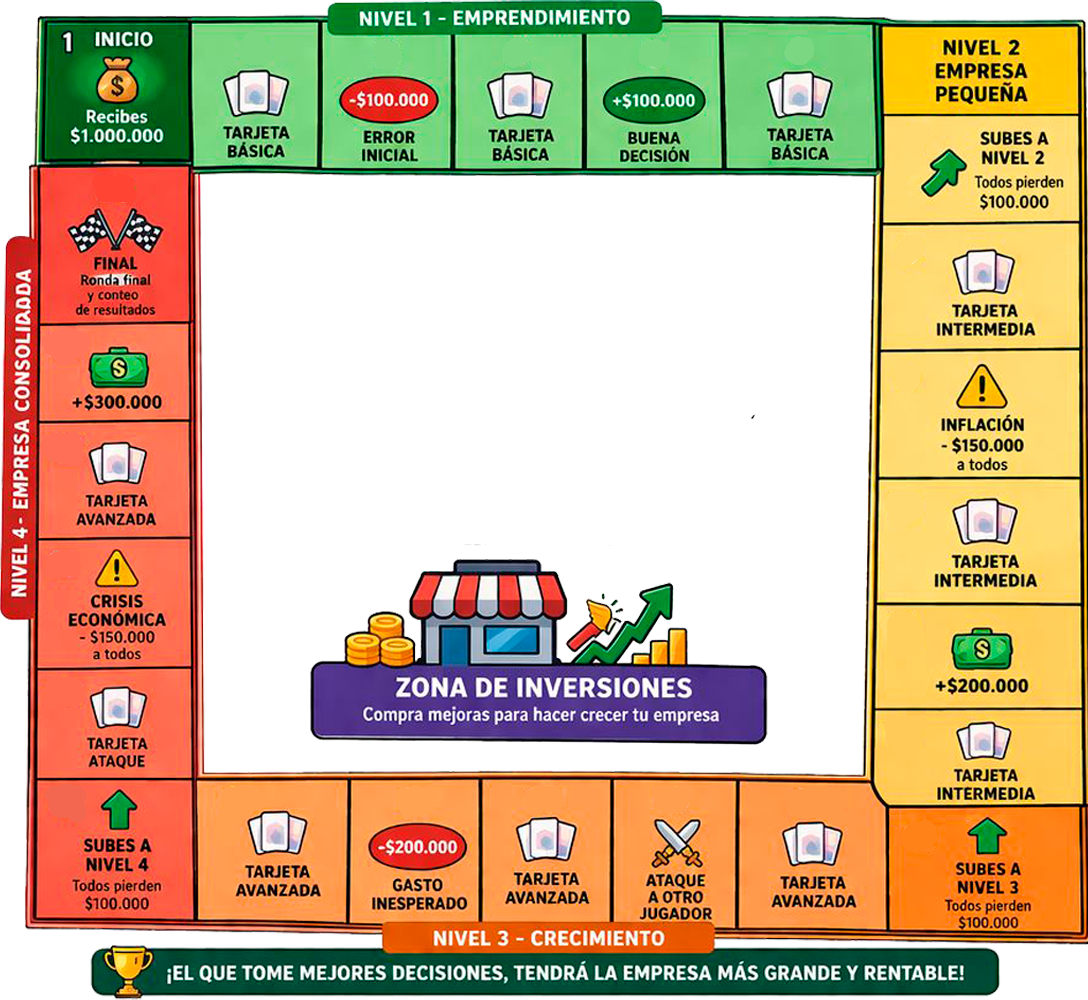
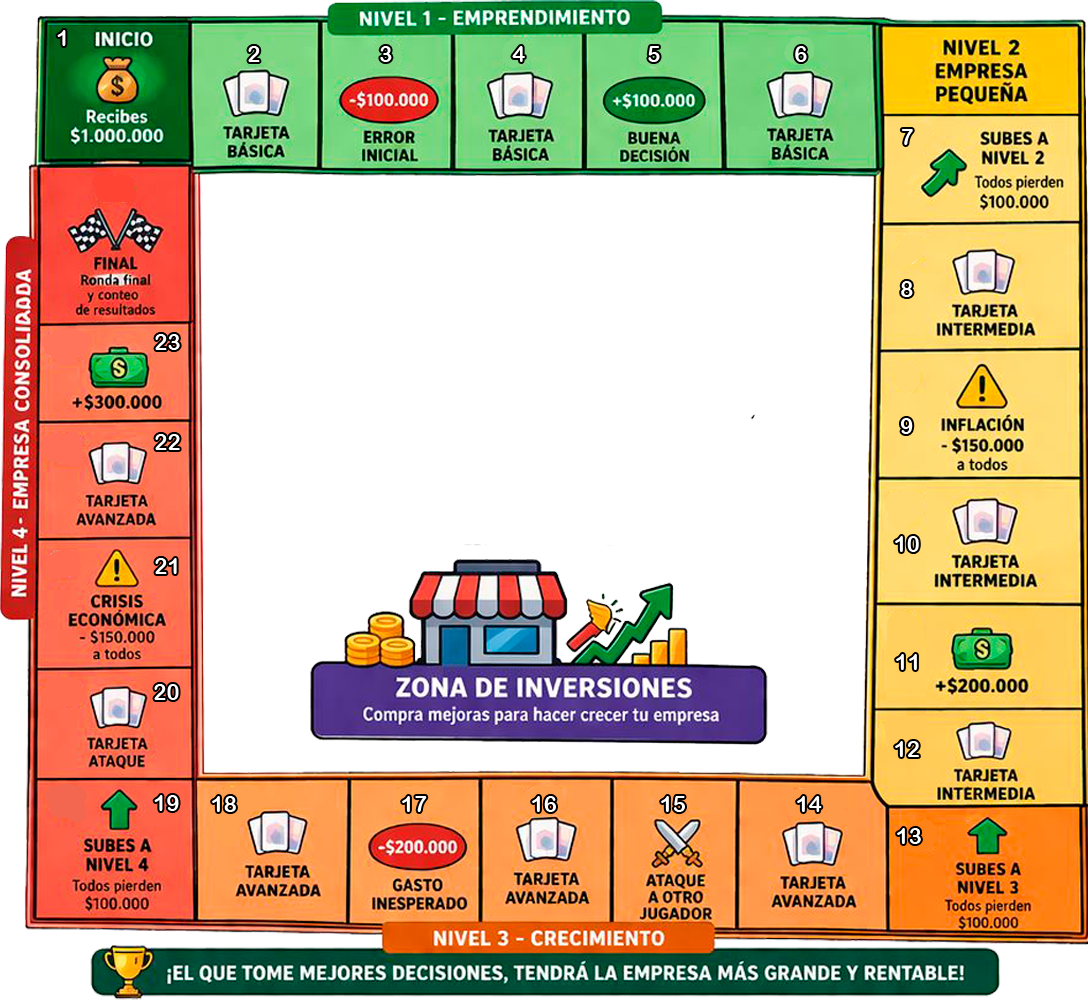
Se mejoran estilos, tablero, fichas, logica

diff --git a/src/app/core/config/board.config.ts b/src/app/core/config/board.config.ts
@@ -19,34 +19,34 @@ export interface TileConfig {
 export const BOARD_POSITIONS: TileConfig[] = [
 
     // NIVEL 1
-    { index: 0, x: 111, y: 83, effect: 'start', amount: 1000000 },
-    { index: 1, x: 252, y: 83, effect: 'card' },
-    { index: 2, x: 382, y: 83, effect: 'lose', amount: 100000 },
-    { index: 3, x: 512, y: 83, effect: 'card' },
-    { index: 4, x: 649, y: 83, effect: 'gain', amount: 100000 },
-    { index: 5, x: 791, y: 83, effect: 'card' },
+    { index: 0, x: 10.2, y: 8.3, effect: 'start', amount: 1000000 },
+    { index: 1, x: 23.1, y: 8.3, effect: 'card' },
+    { index: 2, x: 35.1, y: 8.3, effect: 'lose', amount: 100000 },
+    { index: 3, x: 47.1, y: 8.3, effect: 'card' },
+    { index: 4, x: 59.7, y: 8.3, effect: 'gain', amount: 100000 },
+    { index: 5, x: 72.7, y: 8.3, effect: 'card' },
 
     // NIVEL 2
-    { index: 6, x: 973, y: 148, effect: 'othersLose', amount: 100000 },
-    { index: 7, x: 973, y: 272, effect: 'card' },
-    { index: 8, x: 973, y: 413, effect: 'allLose', amount: 150000 },
-    { index: 9, x: 973, y: 537, effect: 'card' },
-    { index: 10, x: 973, y: 652, effect: 'gain', amount: 200000 },
-    { index: 11, x: 973, y: 747, effect: 'card' },
+    { index: 6, x: 89.4, y: 14.8, effect: 'othersLose', amount: 100000 },
+    { index: 7, x: 89.4, y: 27.2, effect: 'card' },
+    { index: 8, x: 89.4, y: 41.3, effect: 'allLose', amount: 150000 },
+    { index: 9, x: 89.4, y: 53.7, effect: 'card' },
+    { index: 10, x: 89.4, y: 65.2, effect: 'gain', amount: 200000 },
+    { index: 11, x: 89.4, y: 74.7, effect: 'card' },
 
     // NIVEL 3
-    { index: 12, x: 973, y: 872, effect: 'othersLose', amount: 100000 },
-    { index: 13, x: 805, y: 872, effect: 'card' },
-    { index: 14, x: 670, y: 872, effect: 'attack' },
-    { index: 15, x: 537, y: 872, effect: 'card' },
-    { index: 16, x: 410, y: 872, effect: 'lose', amount: 200000 },
-    { index: 17, x: 270, y: 872, effect: 'card' },
+    { index: 12, x: 89.4, y: 87.2, effect: 'othersLose', amount: 100000 },
+    { index: 13, x: 74.0, y: 87.2, effect: 'card' },
+    { index: 14, x: 61.6, y: 87.2, effect: 'attack' },
+    { index: 15, x: 49.3, y: 87.2, effect: 'card' },
+    { index: 16, x: 37.7, y: 87.2, effect: 'lose', amount: 200000 },
+    { index: 17, x: 24.8, y: 87.2, effect: 'card' },
 
     // NIVEL 4
-    { index: 18, x: 110, y: 872, effect: 'othersLose', amount: 100000 },
-    { index: 19, x: 110, y: 721, effect: 'card' },
-    { index: 20, x: 110, y: 610, effect: 'allLose', amount: 150000 },
-    { index: 21, x: 110, y: 470, effect: 'card' },
-    { index: 22, x: 110, y: 370, effect: 'gain', amount: 300000 },
-    { index: 23, x: 110, y: 260, effect: 'finish' }
+    { index: 18, x: 10.1, y: 87.2, effect: 'othersLose', amount: 100000 },
+    { index: 19, x: 10.1, y: 72.1, effect: 'card' },
+    { index: 20, x: 10.1, y: 61.0, effect: 'allLose', amount: 150000 },
+    { index: 21, x: 10.1, y: 47.0, effect: 'card' },
+    { index: 22, x: 10.1, y: 37.0, effect: 'gain', amount: 300000 },
+    { index: 23, x: 10.1, y: 26.0, effect: 'finish' }
 ];

diff --git a/src/app/features/dice/components/dice/dice.component.css b/src/app/features/dice/components/dice/dice.component.css
@@ -1,0 +1,95 @@
+.dice-wrapper {
+    position: fixed;
+    top: 42%;
+    left: 50%;
+    transform: translate(-280%, -50%);
+    perspective: 1000px;
+    z-index: 1000;
+}
+
+.dice-3d {
+    width: 70px;
+    height: 70px;
+    position: relative;
+    transform-style: preserve-3d;
+    transform: rotateX(-20deg) rotateY(25deg);
+    transition: transform .3s;
+}
+
+.dice-3d.rolling {
+    animation: rollDice 1s ease;
+}
+
+@keyframes rollDice {
+    0% {
+        transform: rotateX(0) rotateY(0);
+    }
+
+    25% {
+        transform: rotateX(180deg) rotateY(90deg);
+    }
+
+    50% {
+        transform: rotateX(360deg) rotateY(180deg);
+    }
+
+    75% {
+        transform: rotateX(540deg) rotateY(270deg);
+    }
+
+    100% {
+        transform: rotateX(720deg) rotateY(360deg);
+    }
+}
+
+.face {
+    position: absolute;
+    width: 70px;
+    height: 70px;
+    background: var(--diceColor);
+    border-radius: 16px;
+    display: grid;
+    grid-template-columns: repeat(3, 1fr);
+    padding: 8px;
+    box-shadow: 0 10px 25px rgba(0, 0, 0, .4);
+}
+
+.face span {
+    width: 10px;
+    height: 10px;
+    background: white;
+    border-radius: 50%;
+    align-self: center;
+    justify-self: center;
+}
+
+.one {
+    transform: translateZ(35px);
+}
+
+.two {
+    transform: rotateY(90deg) translateZ(35px);
+}
+
+.three {
+    transform: rotateY(180deg) translateZ(35px);
+}
+
+.four {
+    transform: rotateY(-90deg) translateZ(35px);
+}
+
+.five {
+    transform: rotateX(90deg) translateZ(35px);
+}
+
+.six {
+    transform: rotateX(-90deg) translateZ(35px);
+}
+
+.show-1 { transform: rotateX(0deg) rotateY(0deg); }
+.show-2 { transform: rotateX(0deg) rotateY(-90deg); }
+.show-3 { transform: rotateX(0deg) rotateY(-180deg); }
+.show-4 { transform: rotateX(0deg) rotateY(90deg); }
+.show-5 { transform: rotateX(-90deg) rotateY(0deg); }
+.show-6 { transform: rotateX(90deg) rotateY(0deg); }

diff --git a/src/app/features/board/pages/players-panel/players-panel.component.ts b/src/app/features/board/pages/players-panel/players-panel.component.ts
@@ -17,24 +17,30 @@ export class PlayersPanelComponent {
     if (color.startsWith('rgb')) {
       const rgb = color.match(/\d+/g);
       if (rgb && rgb.length >= 3) {
-        const r = parseInt(rgb[0]);
-        const g = parseInt(rgb[1]);
-        const b = parseInt(rgb[2]);
-        const lighterR = Math.floor(r + (255 - r) * 0.7);
-        const lighterG = Math.floor(g + (255 - g) * 0.7);
-        const lighterB = Math.floor(b + (255 - b) * 0.7);
-        return `rgb(${lighterR}, ${lighterG}, ${lighterB})`;
+        let r = parseInt(rgb[0]);
+        let g = parseInt(rgb[1]);
+        let b = parseInt(rgb[2]);
+
+        // Oscurecer pero mantener viveza (reducir un 30% en lugar de mezclar con blanco)
+        r = Math.floor(r * 0.7);
+        g = Math.floor(g * 0.7);
+        b = Math.floor(b * 0.7);
+
+        return `rgb(${r}, ${g}, ${b})`;
       }
     }
 
     if (color.startsWith('#')) {
-      const r = parseInt(color.slice(1, 3), 16);
-      const g = parseInt(color.slice(3, 5), 16);
-      const b = parseInt(color.slice(5, 7), 16);
-      const lighterR = Math.floor(r + (255 - r) * 0.7);
-      const lighterG = Math.floor(g + (255 - g) * 0.7);
-      const lighterB = Math.floor(b + (255 - b) * 0.7);
-      return `rgb(${lighterR}, ${lighterG}, ${lighterB})`;
+      let r = parseInt(color.slice(1, 3), 16);
+      let g = parseInt(color.slice(3, 5), 16);
+      let b = parseInt(color.slice(5, 7), 16);
+
+      // Oscurecer pero mantener viveza
+      r = Math.floor(r * 0.7);
+      g = Math.floor(g * 0.7);
+      b = Math.floor(b * 0.7);
+
+      return `rgb(${r}, ${g}, ${b})`;
     }
 
     return color;

diff --git a/src/app/features/dice/components/dice/dice.component.html b/src/app/features/dice/components/dice/dice.component.html
@@ -1,4 +1,28 @@
-<div class="dice">
-    <button (click)="roll()">Lanzar dado</button>
-    <h2 *ngIf="result">Resultado: {{result}}</h2>
+<div class="dice-wrapper">
+    <div class="dice-3d" [ngClass]="finalClass" [class.rolling]="rolling" [style.--diceColor]="currentColor"
+        (click)="roll()">
+        <div class="face one">
+            <span></span>
+        </div>
+
+        <div class="face two">
+            <span></span><span></span>
+        </div>
+
+        <div class="face three">
+            <span></span><span></span><span></span>
+        </div>
+
+        <div class="face four">
+            <span></span><span></span><span></span><span></span>
+        </div>
+
+        <div class="face five">
+            <span></span><span></span><span></span><span></span><span></span>
+        </div>
+
+        <div class="face six">
+            <span></span><span></span><span></span><span></span><span></span><span></span>
+        </div>
+    </div>
 </div>

diff --git a/src/app/features/dice/components/dice/dice.component.ts b/src/app/features/dice/components/dice/dice.component.ts
@@ -13,17 +13,35 @@ import { CommonModule } from '@angular/common';
 export class DiceComponent {
 
   result: number | null = null;
+  rolling = false;
+  finalClass = '';
+  currentColor = '#ffffff';
+
   private turnEngine = new TurnEngine();
 
   constructor(private game: GameService) { }
 
   roll() {
-    const dice = this.game.rollDice();
-    this.result = dice;
+
+    if (this.rolling) return;
 
     const player = this.turnEngine.getCurrentPlayer(this.game.players);
-    player.position += dice;
+    this.currentColor = player.color;
 
-    this.turnEngine.nextTurn(this.game.players);
+    this.rolling = true;
+    this.finalClass = '';
+
+    setTimeout(() => {
+
+      const dice = this.game.rollDice();
+      this.result = dice;
+
+      player.position += dice;
+      this.turnEngine.nextTurn(this.game.players);
+
+      this.rolling = false;
+      this.finalClass = 'show-' + dice;
+
+    }, 1000);
   }
 }

diff --git a/src/app/features/board/pages/game-board/game-board.component.css b/src/app/features/board/pages/game-board/game-board.component.css
@@ -13,13 +13,14 @@
 
 .board-area {
     position: relative;
-    width: 80%;
-    height: 80%;
-    max-width: 1100px;
-    max-height: 1100px;
+    width: min(80vw, 900px);
+    max-height: 80vh;
+    aspect-ratio: 1088 / 1000;
 }
 
 .board {
+    position: absolute;
+    inset: 0;
     width: 100%;
     height: 100%;
     object-fit: contain;
@@ -27,14 +28,16 @@
 
 .player-token {
     position: absolute;
-    width: 42px;
-    height: 42px;
+    width: 3.2%;
+    aspect-ratio: 1;
     border-radius: 50%;
     color: #111;
     font-weight: bold;
+    font-size: clamp(10px, 1vw, 14px);
     display: flex;
     justify-content: center;
     align-items: center;
     transform: translate(-50%, -50%);
-    box-shadow: 0 0 10px rgba(0, 0, 0, .5);
+    box-shadow: 0 0 12px rgba(0, 0, 0, .6);
+    transition: all .45s cubic-bezier(.22, 1, .36, 1);
 }

diff --git a/src/app/features/board/pages/game-board/game-board.component.ts b/src/app/features/board/pages/game-board/game-board.component.ts
@@ -23,7 +23,15 @@ export class GameBoardComponent {
   constructor(public game: GameService) { }
 
   getPosition(player: any) {
-    return BOARD_POSITIONS[player.position % BOARD_POSITIONS.length];
+    const base = BOARD_POSITIONS[player.position % BOARD_POSITIONS.length];
+
+    const offsetStep = 1.8; // separación real proporcional
+    const offset = player.id * offsetStep;
+
+    return {
+      x: base.x + offset,
+      y: base.y + offset
+    };
   }
 
   getCurrentPlayer() {

diff --git a/src/app/features/board/pages/players-panel/players-panel.component.css b/src/app/features/board/pages/players-panel/players-panel.component.css
@@ -12,7 +12,7 @@
     border-radius: 1rem;
     padding: .8rem;
     width: 15rem;
-    color: #0F1117;
+    color: #fff;
     box-shadow: 0 10px 25px rgba(0, 0, 0, .35);
 }
 
@@ -46,7 +46,7 @@
 .separator {
     width: 100%;
     height: 2px;
-    background: #000000a5;
+    background: #ffffffa5;
     margin: 4px 0;
 }
 
@@ -83,8 +83,7 @@
 }
 
 .level.active {
-    background: #fff;
-    box-shadow: 0 2px 4px rgba(0, 0, 0, 0.2);
+    background: #ff6e6e;
 }
 
 .money-section {

diff --git a/src/app/features/hud/hud.component.css b/src/app/features/hud/hud.component.css
@@ -1,6 +1,6 @@
 .hud {
     position: absolute;
-    width: 18%;
+    width: 15%;
     top: 24px;
     left: 24px;
     display: flex;
